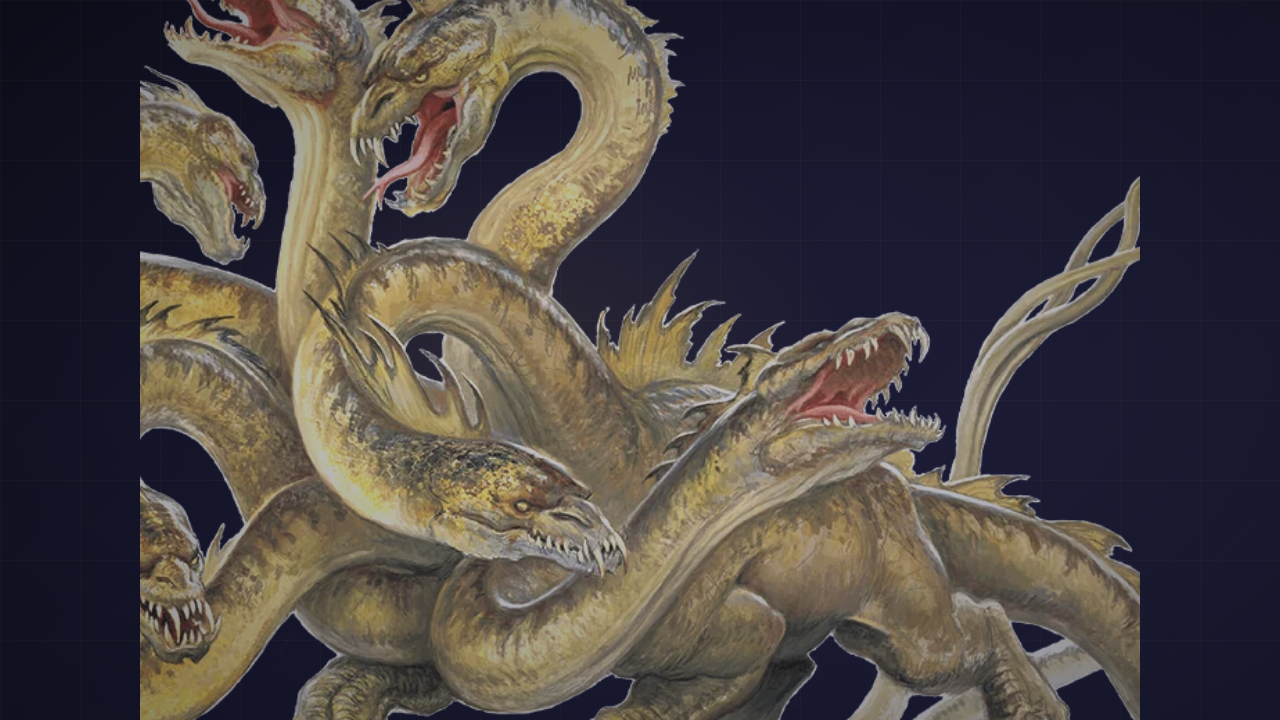
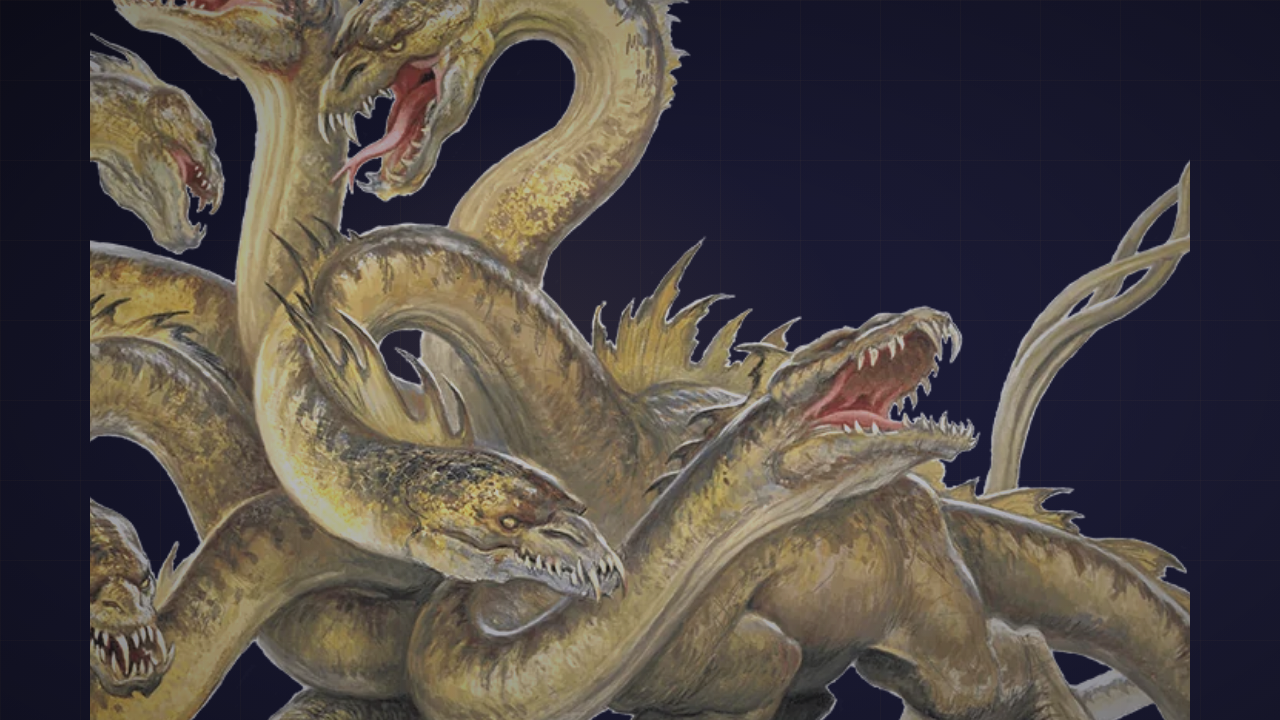
fix(blog): hydra cabeças visíveis + barsavi rosto centralizado
- Hydra: object-position center 40%, width 1100px (mostra todas as cabeças)
- Barsavi: object-position center 20% (rosto + escudo visíveis)

diff --git a/docs/social-media/arts/blog-hero-visual.html b/docs/social-media/arts/blog-hero-visual.html
@@ -194,7 +194,7 @@
   <div class="hero-bg"></div>
   <div class="hero-grid"></div>
   <div class="hero-glow"></div>
-  <img class="hero-art" src="../arts/assets/hydra.png" alt="" style="width: 1000px; height: 900px;">
+  <img class="hero-art" src="../arts/assets/hydra.png" alt="" style="width: 1100px; height: 1000px; object-position: center 40%;">
   <div class="hero-vignette"></div>
 </div>
 
@@ -214,7 +214,7 @@
   <div class="hero-bg" style="background: linear-gradient(135deg, #111122 0%, #1a1320 40%, #1e1528 100%);"></div>
   <div class="hero-grid"></div>
   <div class="hero-glow" style="left: 55%;"></div>
-  <img class="hero-art" src="../arts/assets/capa-barsavi-portrait.png" alt="" style="width: 750px; height: 1000px; opacity: 0.75; filter: saturate(0.9) brightness(1.25);">
+  <img class="hero-art" src="../arts/assets/capa-barsavi-portrait.png" alt="" style="width: 750px; height: 1000px; opacity: 0.75; filter: saturate(0.9) brightness(1.25); object-position: center 20%;">
   <div class="hero-vignette"></div>
 </div>
 
@@ -224,7 +224,7 @@
   <div class="hero-bg" style="background: linear-gradient(135deg, #111122 0%, #1a1320 40%, #1e1528 100%);"></div>
   <div class="hero-grid"></div>
   <div class="hero-glow" style="left: 50%;"></div>
-  <img class="hero-art" src="../arts/assets/capa-barsavi-portrait.png" alt="" style="width: 750px; height: 1000px; opacity: 0.75; filter: saturate(0.9) brightness(1.25);">
+  <img class="hero-art" src="../arts/assets/capa-barsavi-portrait.png" alt="" style="width: 750px; height: 1000px; opacity: 0.75; filter: saturate(0.9) brightness(1.25); object-position: center 20%;">
   <div class="hero-vignette"></div>
 </div>
 
